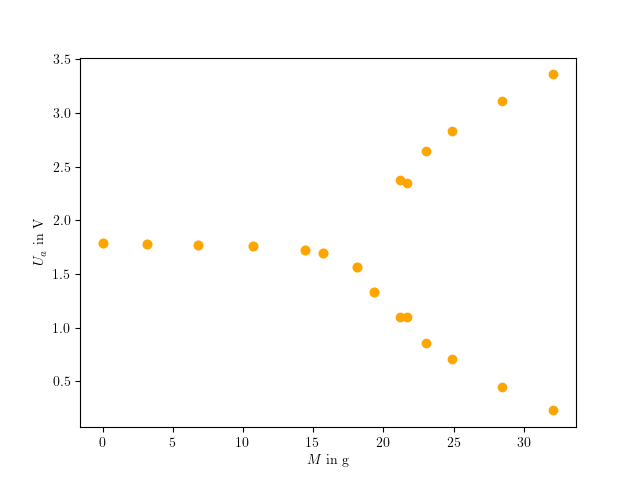
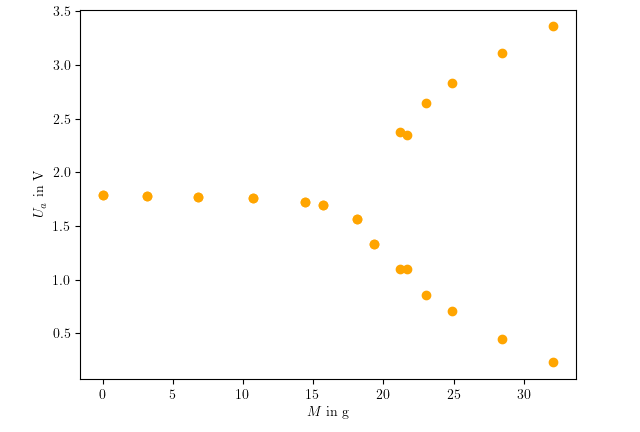
Chaos: 3.1.1

diff --git a/Versuch_Chaos/41-AuswerungPendel.tex b/Versuch_Chaos/41-AuswerungPendel.tex
@@ -9,39 +9,86 @@
 \label{sub:bifuAndKritMass}
 Über den Versuch wurde die Auslenkung $\theta$ bzw. die Spannung $U_a$ am Digitalmultimeter links ($U_{a,l}$) und rechts ($U_{a,r}$) gemessen. Dabei ergeben sich erst ab einer gewissen Masse, eine Auslenkung links oder rechts hier schematisch in dem Bifurkationsdiagramm dargestellt (Abb \ref{image:bifu}), welches auch symmetrisch gegenüber Periode 1 ist.
 \begin{center}
-    \includegraphics[scale=0.5]{BifurkationMass.png}
+    \includegraphics[scale=0.7]{BifurkationMass.png}
     \captionof{figure}{Bifurkationsdiagramm in Abhängigkeit der Masse}
     \label{image:bifu}
 \end{center}
-Um die kritische Masse $M_k$ zu bestimmen, wird die Differenz $\delta U_a=U_{a,l}-U_{a,r}$ bestimmt und diese quadriert, also $(\delta U_a)^2$. Der Fehler ergibt sich dann aus dem Fehlerfortpflanzungsgesetz, wobei der Ablesefehler $s_a$ auch gleichzeitig als Restfehler $s_r$ abgeschätzt wird. Daraus folgt:
+Um die kritische Masse $M_k$ zu bestimmen, wird die Differenz $\Delta U_a=U_{a,l}-U_{a,r}$ bestimmt und diese quadriert, also $(\Delta U_a)^2$. Der Fehler ergibt sich dann aus dem Fehlerfortpflanzungsgesetz, wobei der Ablesefehler $s_a$ gleichzeitig als Restfehler $s_r$ abgeschätzt wird. Daraus folgt:
+\begin{gather}
+    (\Delta U_a)^2 = (U_{a,l}-U_{a,r})^2\\
+    s_{U_a}=\sqrt{s_a^2+s_r^2}=\sqrt{2}s_a\\[0,5cm]
+    s_{(\Delta U_a)^2}=\sqrt{\left(\frac{\partial((\Delta U_a)^2)}{\partial U_{a,l}}s_{U_a}\right)^2 + \left(\frac{\partial((\Delta U_a)^2)}{\partial U_{a,r}}s_{U_a}\right)^2}=2\sqrt{2}s_{U_a}|\Delta U_a|=4s_a |\Delta U_a|
+\end{gather}
 \begin{center}
-    \begin{tabular}{r|cccc}
-        $M$ [g] &  $U_{a,l}$ [V] &  $U_{a,r}$ [V] &  $s_{U_a}$ [V] &  $(\Delta U_a)^2$ [V] \\
+    \begin{tabular}{r|cccc|cc}
+        $M$/g &  $U_{a,l}$/V &  $U_{a,r}$/V & $s_a$/V & s_{U_a}/V & $(\Delta U_a)^2$/V$^2$ &  $s_{(\Delta U_a)^2}$/V$^2$ \\
         \hline
-         0.00 &  1.78606 &  1.78606 &  0.00005 &   0.0000 \\
-         3.14 &  1.78046 &  1.78046 &  0.00050 &   0.0000 \\
-         6.78 &  1.77300 &  1.77300 &  0.00500 &   0.0000 \\
-        10.75 &  1.76000 &  1.76000 &  0.00500 &   0.0000 \\
-        14.42 &  1.72000 &  1.72000 &  0.05000 &   0.0000 \\
-        15.72 &  1.70000 &  1.70000 &  0.05000 &   0.0000 \\
-        18.10 &  1.57000 &  1.57000 &  0.05000 &   0.0000 \\
-        19.36 &  1.33000 &  1.33000 &  0.05000 &   0.0000 \\
-        21.19 &  1.10000 &  2.38000 &  0.05000 &   1.6384 \\
-        21.67 &  1.10000 &  2.35000 &  0.05000 &   1.5625 \\
-        23.05 &  0.86000 &  2.65000 &  0.05000 &   3.2041 \\
-        24.88 &  0.71000 &  2.83000 &  0.05000 &   4.4944 \\
-        28.45 &  0.45000 &  3.11000 &  0.05000 &   7.0756 \\
-        32.12 &  0.23000 &  3.36000 &  0.05000 &   9.7969 \\
+         0,00  &  1,78606 &  1,78606 &   0,00005 &  0,00007 &  0,0 &     0,0 \\
+         3,14  &  1,78046 &  1,78046 &   0,00050 &  0,00071 &  0,0 &     0,0 \\
+         6,78  &  1,77300 &  1,77300 &   0,00500 &  0,00707 &  0,0 &     0,0 \\
+        10,75  &  1,76000 &  1,76000 &   0,00500 &  0,00707 &  0,0 &     0,0 \\
+        14,42  &  1,72000 &  1,72000 &   0,05000 &  0,07071 &  0,0 &     0,0 \\
+        15,72  &  1,70000 &  1,70000 &   0,05000 &  0,07071 &  0,0 &     0,0 \\
+        18,10  &  1,57000 &  1,57000 &   0,05000 &  0,07071 &  0,0 &     0,0 \\
+        19,36  &  1,33000 &  1,33000 &   0,05000 &  0,07071 &  0,0 &     0,0 \\
+        21,19  &  1,10000 &  2,38000 &   0,05000 &  0,07071 &  1,6 &     0,3 \\
+        21,67  &  1,10000 &  2,35000 &   0,05000 &  0,07071 &  1,6 &     0,3 \\
+        23,05  &  0,86000 &  2,65000 &   0,05000 &  0,07071 &  3,2 &     0,4 \\
+        24,88  &  0,71000 &  2,83000 &   0,05000 &  0,07071 &  4,5 &     0,4 \\
+        28,45  &  0,45000 &  3,11000 &   0,05000 &  0,07071 &  7,1 &     0,5 \\
+        32,12  &  0,23000 &  3,36000 &   0,05000 &  0,07071 &  9,8 &     0,6 \\
     \end{tabular}
     \captionof{table}{Messreihe Auslenkung Gleichgewichtslage}
     \label{tab:gleichgewichtslage}
 \end{center}
+Die Daten werden dann mit dem Numpy-Modul linear gefittet, dabei werden nur die letzten sieben Datensätze verwendet werden, da sich $(\Delta U_a)^2$ erst ab da Veränderung zeigt (siehe Abb. \ref{image:linFit}). Dabei ergibt sich die gefittete Funktion mit den jeweiligen Fehlern ermittelt:
+\begin{gather}
+    (\Delta U_a)^2 = c M + b = 0,77 \frac{\text{V}^2}{\text{g}} M - 14,73~\text{V}^2\\
+    c = (0,77 \pm 0,02)~\frac{\text{V}^2}{\text{g}},~b = (-14,73 \pm 0,48)~\text{V}^2
+\end{gather}
+Daraus ergibt sich die kritische Masse $M_k$, wenn man $(\Delta U_a)^2=0$ setzt. Woraus widerrum mit Fehlerfortpflanzung folgt:
+\begin{gather}
+    M_k = \frac{b}{c} = 19,22~\text {g},~
+    s_{M_k} = \sqrt{\left(\frac{s_b}{c}\right)^2+\left(\frac{b s_c}{c^2}\right)^2}=0,78~\text{g}\\[0,5cm]
+    \Rightarrow\boxed{M_k = (19,22 \pm 0,78)~\text{g}}
+\end{gather}
+Die Federkonstante $k$ und dessen Fehler ergibt sich dann mit dem Fehler der Länge $L$ (gemessen mit Stahlmaßstab), wobei die Erdbeschleunigung fehlerfrei angenommen wird:
+\begin{gather}
+    L = 0,37~\text{m}\\
+    s_L=\sqrt{s_a^2+s_r^2}=\sqrt{(5\cdot 10^{-4}~\text{m})^2+(5\cdot 10^{-5}~\text{m}+\cdot 10^{-4}*L)^2} = 0,0006~\text{m}\\
+    M_k = \frac{k}{gL} \Leftrightarrow k = M_k g L = 0,069762834~\text{Nm}\\
+    s_k = \sqrt{(gLs_{M_k})^2+(M_kgs_L)^2} = 0,002833425~\text{Nm}\\[0,5cm]
+    \Rightarrow\boxed{k = (0,070 \pm 0,003)~\text{Nm}}
+\end{gather}
+Hierbei ist anzumerken, dass $k$ nicht die Einheit einer Federkonstante hat sondern eines Drehmoments. Die Vermutung liegt mit einen Blick auf Kapitel \ref{sub:bewegungsgleichung} beschrieben Differentialgleichung, dass sich bei $k$ eigentlich um das Direktionsmoment handeln muss, wobei das Direktionsmoment der Federkonstante $k$ bei longitudinalen Auslenkungen entspricht.
+
+Zur Verifikation des Ergebnisses haben wir mehrfache (10mal) die Schwingungsdauer des Pendels mit der befestigten Masse $M = 12,58$ g gemessen.
 \begin{center}
     \begin{tabular}{ c | cccccccccc }
         {} & 1 & 2 & 3 &4 &5 &6 &7 &8 &9 &10\\
         \hline
-        $T$ [s]&19.14&19.28&18.88&19.18&19.00&18.66&19.12&19.01&19.20&19.29\\
+        $T_10$/s&19,14&19,28&18,88&19,18&19,00&18,66&19,12&19,01&19,20&19,29\\
     \end{tabular}
     \captionof{table}{Messreihe Schwingungsdauer}
     \label{tab:schwingung}
+\end{center}
+Es wird nun der Mittelwert über eine Periode genommen, wobei der Ablesefehler der digitale Messuhr auch gleichzeitig als Restfehler abgeschätzt wird und der Fehler der einen Periode mit dem Fehlerfortpflanzungsgesetz berechnet wurde. Daraus folgt:
+\begin{gather}
+    T = \overline{T} = \frac{1}{10} \sum_{n = 1}^{10} \frac{T_{10,n}}{10} = 1,9076~\text{s}\\
+    s_{T_{10}} = \sqrt{s_a^2+s_r^2}=\sqrt{2}s_a \Rightarrow s_T = \frac{s_T}{10\sqrt{10}} = \frac{s_a}{10\sqrt{5}} = 0,000447214\\[0,5cm]
+    \Rightarrow\boxed{T = (1,9076 \pm 0,0004)~\text{s}}
+\end{gather}
+\newpage
+Über Federkonstante (Direktionsmoment) $k$ lässt sich dann die Schwingungsdauer $T$ wie folgt berechnen \citep{Leifi}, wobei für den Fehler von $T$ der Fehler der Masse und Länge vernachlässigt wird:
+\begin{gather}
+    T = 2\pi\sqrt{\frac{ML^2}{k- MgL}} = 1,671383586~\text{s}\\
+    s_T = \frac{\pi ML^2 s_k}{(k-MgL)^2 \sqrt{\frac{ML^2}{k- MgL}}} = 0,1030091566\\[0,5cm]
+    \Rightarrow\boxed{T = (1,67 \pm 0,10)~\text{s}}
+\end{gather}
+Das Ergebnis zeigt, dass die bestimmte Federkonstante $k$ nahe an den tatsächlichen Wert der Blattfeder liegt. Die möglichen Abweichung könnten von denen in Kapitel \ref{sub:bewegungsgleichung} gemachten Näherungen oder dem vorangegangenen Fit verursacht werden. Auch könnte das Alter des Messaufbaus seinen Teil zu der Ungenauigkeit beigetragen haben. Dennoch ist das Ergebnis im Rahmen unserer Möglichkeiten akzeptabel.
+\newpage
+\begin{center}
+    \includegraphics[scale=0.6]{linearFit.png}
+    \captionof{figure}{Linerar Fit der Messreihe}
+    \label{image:linFit}
 \end{center}

diff --git a/Versuch_Chaos/41-Bifurkation.py b/Versuch_Chaos/41-Bifurkation.py
@@ -1,3 +1,4 @@
+from matplotlib.pyplot import colorbar
 import numpy as np
 import pandas as pd
 import matplotlib.pylab as plt
@@ -11,11 +12,44 @@ df = pd.read_csv(data)
 
 #Berechnung
 df = df.sort_values(by='Masse [g]')
+df['sa'] = df['sUA']
+df['sUA'] = np.sqrt(2)*df['sa']
 df["Delta^2"] = (df["UAl [V]"] - df["UAr [V]"])**2
+df['sDelta^2'] = 4*df['sa']*np.abs(df["UAl [V]"] - df["UAr [V]"])
 
-plt.plot(df["Masse [g]"],df["UAl [V]"], 'o', color='orange')
-plt.plot(df["Masse [g]"],df["UAr [V]"], 'o', color='orange')
+print(df.to_latex())
+
+'''
+x = df["Masse [g]"]
+y1, y2 = df["UAl [V]"], df["UAr [V]"]
+plt.plot(x,y1, 'o', color='orange')
+plt.plot(x,y2, 'o', color='orange')
 plt.xlabel(r'$M$ in g')
 plt.ylabel(r'$U_a$ in V')
-#plt.errorbar(df["Masse [g]"][7:],df["Delta^2"][7:], yerr=df["sUA"][7:], fmt='x', capsize=5)
+
+plt.show()
+'''
+
+x = df['Masse [g]'][7:]
+y, y_err = df['Delta^2'][7:], df['sDelta^2'][7:]
+plt.errorbar(x,y, yerr=y_err, fmt='x', capsize=5, color='darkorange', label='Messreihe')
+
+# Fit
+model, cov = np.polyfit(x,y,1,cov=True)
+predict = np.poly1d(model)
+x_lin = np.linspace(x.min()-1,x.max(),300)
+y_lin = predict(x_lin)
+
+M_k = 14.73/0.7665
+y_k, x_k = np.repeat(0,300), np.repeat(M_k,300)
+x_s, y_s = np.linspace(x.min()-1,x.max(),300), np.linspace(y.min()-1,y.max(),300)
+print(predict, M_k)
+print(np.sqrt(np.diag(cov)))
+
+plt.xlabel(r'$M$ in g')
+plt.ylabel(r'$(\Delta U_a)^2$ in V$^2$')
+plt.plot(x_lin,y_lin, 'orange', label=r'Linearer Fit: $(\Delta U_a)^2 = 0.7665 \frac{\mathrm{V}^2}{\mathrm{g}} M - 14.73~\mathrm{V}^2$')
+plt.plot(x_k,y_s,'r', linestyle='--',label='Kritische Masse: $M_k = 19.22$ g')
+plt.plot(x_s,y_k,'r', linestyle='--')
+plt.legend()
 plt.show()

diff --git a/Versuch_Chaos/30-Protokoll.tex b/Versuch_Chaos/30-Protokoll.tex
@@ -14,10 +14,11 @@
 Vermessung der Gleichgewichtslage $\theta_g$ in Abhängigkeit der Masse $M$. Dabei wird die Gleichgewichtslage über eine Spannung $U_a$, welche generiert wird durch in (\ref{sub:aufbauPendel}) beschriebenen Schaltkreis erzeugt wird. Dabei wird angenommen (siehe (\ref{sub:aufbauPendel})), dass $U_a$ proportional zu der Auslenkwinkel im Gleichgewicht $\theta_g$ ist und damit der generelle Verlauf der Graphen identisch ist.
 \begin{itemize}
 \item Messfehler Waage: $s_a = 0,005\, g = s_r$
-\item Messfehler Multimeter: $s_a = 0,00005 = s_r$\\
+\item Messfehler Multimeter: $s_a = 0,00005$ V$= s_r$\\
       Durch starke Schwankungen am Multimeter verändert sich der Wert des Fehlers des Multimeters mit der Zunahme der Masse $M$
-\item Länge des Pendels (mit Stahlmaßstab): $l = 37 \, cm$
-\item Gewicht Feststellschraube: $m_s = 3,14 \,g$
+\item Messfehler Stoppuhr: $s_a = 0,01$ s $=s_r$
+\item Länge des Pendels (mit Stahlmaßstab): $l = 37$ cm
+\item Gewicht Feststellschraube: $m_s = 3,14$ g
 \end{itemize}
 Datei: BifurkationPendel.csv
 
